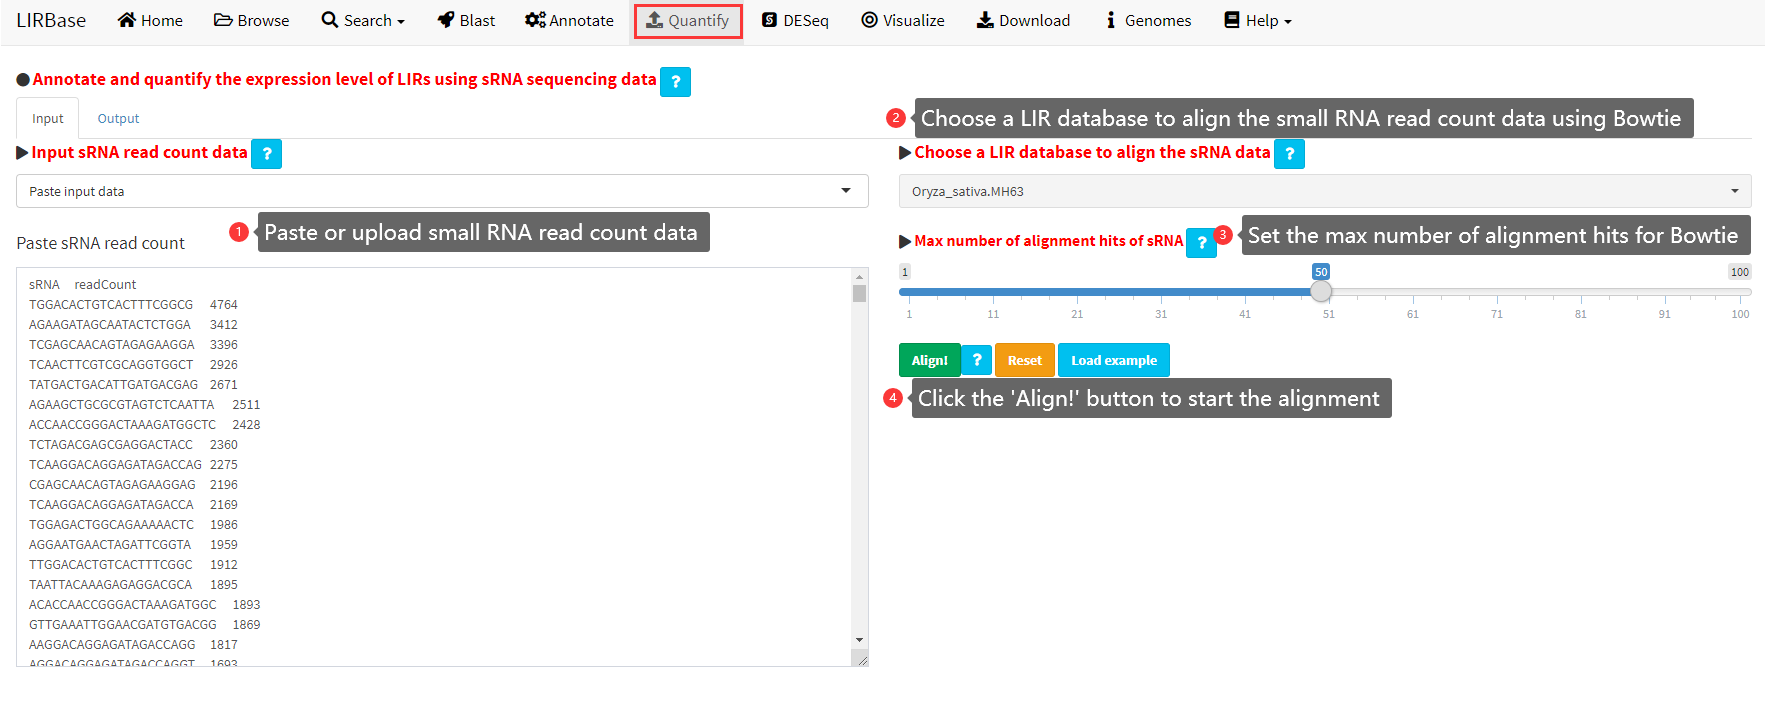
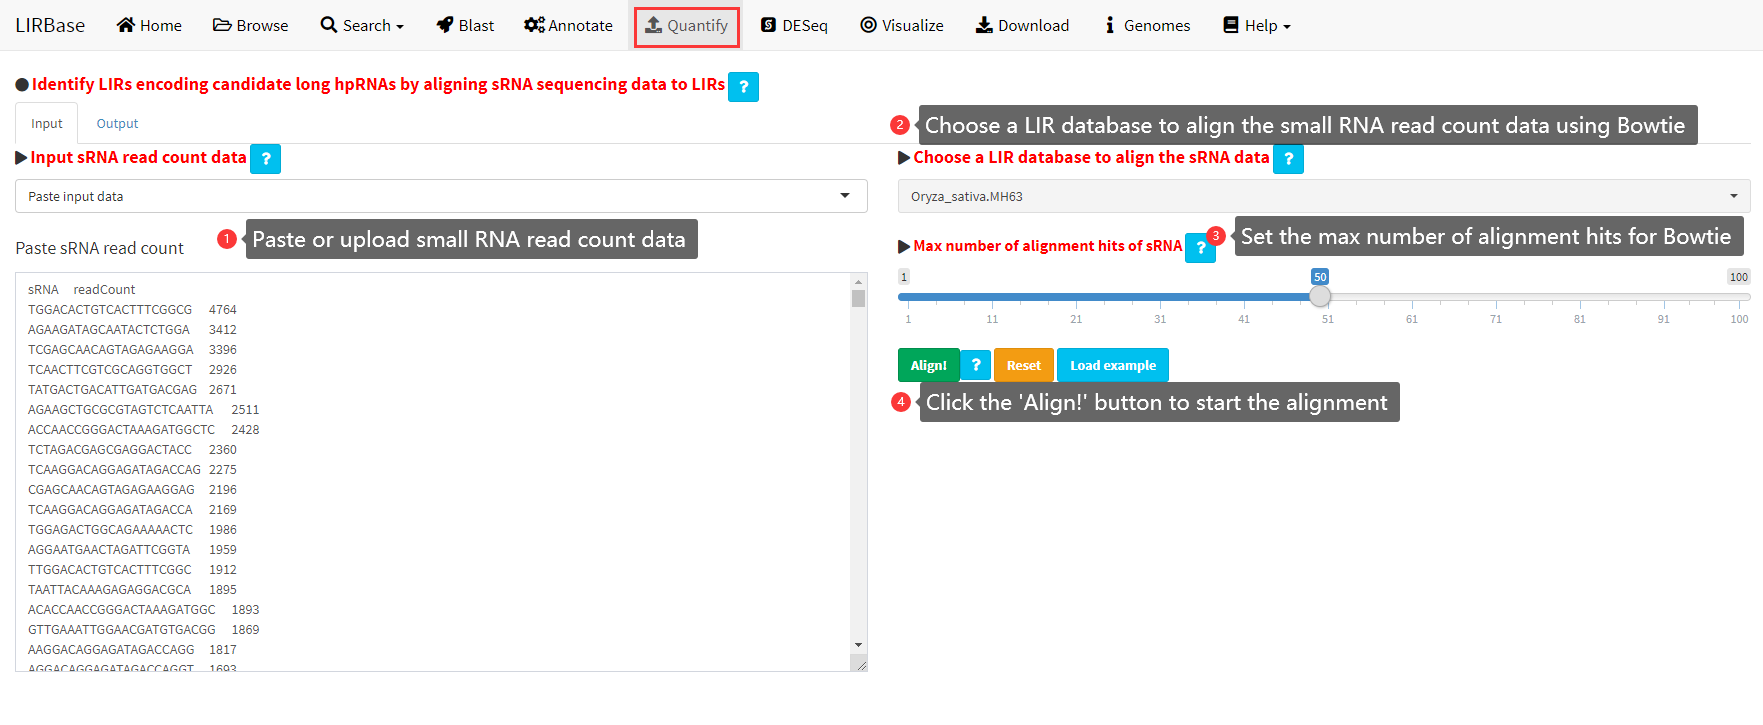
Update Tutorial and user interface

diff --git a/Tutorial.md b/Tutorial.md
@@ -11,7 +11,7 @@
 >&emsp;&emsp;The homepage of **LIRBase** displays the main functionalities of LIRBase (Figure 1). The definition of long inverted repeat, the biogenesis pathway of siRNAs from long inverted repeat and the biological roles of siRNAs generated in this pathway are elaborated in the homepage of LIRBase. These results implied that a platform for comprehensive annotation and analysis of siRNAs derived from long inverted repeat is in urgent need.
 
 <div align=center><img src="Fig1.png" width="85%" height="85%" align=center /></div>
-<div align=center><font color=blue size=4>Figure 1. The homepage of LIRBase.</font></div>  
+<div align=center><font color=blue size=5>Figure 1. The homepage of LIRBase.</font></div>  
 
 
 ## **1. Browse LIRBase for long inverted repeats identified in 424 eukaryotic genomes**
@@ -19,124 +19,129 @@
 >&emsp;&emsp;The images and the species names of 424 eukaryotes are listed in the &quot;Species&quot; panel of the &quot;Browse&quot; menu of LIRBase (Figure 2). Click of the image or the species name of any genome would take you to the &quot;LIRs annotated by IRF&quot; panel of the &quot;Browse&quot; menu, which displays all the LIRs identified in the selected genome (Figure 3). A brief summary of all the LIRs of the selected genome and a table of all the LIRs showing the structure of each LIR is demonstrated in the &quot;LIRs annotated by IRF&quot; panel. Click of the ID of any LIR in the table of all LIRs would take you to the &quot;Details of the LIR selected&quot; panel of the &quot;Browse&quot; menu, which displays the sequence, structure of the selected LIR and the overlaps between the selected LIRs and gene (Figure 3 and 4).
 
 <div align=center><img src="Fig2.png" width="85%" height="85%" align=center /></div>
-<div align=center><font color=blue size=4>Figure 2. Species name and images of 424 eukaryotic genomes listed in the &quot;Species&quot; panel of the &quot;Browse&quot; menu.</font></div>  
+<div align=center><font color=blue size=5>Figure 2. Species name and images of 424 eukaryotic genomes listed in the &quot;Species&quot; panel of the &quot;Browse&quot; menu.</font></div>  
 
 <br/>
 
 <div align=center><img src="Fig3.png" width="85%" height="85%" align=center /></div>
-<div align=center><font color=blue size=4>Figure 3. List of all the LIRs identified by IRF for a selected genome.</font></div>  
+<div align=center><font color=blue size=5>Figure 3. List of all the LIRs identified by IRF for a selected genome.</font></div>  
 
 <br/>
 
 <div align=center><img src="Fig4.png" width="85%" height="85%" align=center /></div>
-<div align=center><font color=blue size=4>Figure 4. Detailed information of a selected LIR.</font></div>  
+<div align=center><font color=blue size=5>Figure 4. Detailed information of a selected LIR.</font></div>  
 
 ## **2. Search LIRBase for LIRs in a specific genome by genomic locations**
 
 >&emsp;&emsp;LIRBase allows searching for LIRs of any of the 424 eukaryotic genomes by genomic locations (Figure 5). The detailed steps are shown in Figure 6.
 
 <div align=center><img src="Fig5.png" width="85%" height="85%" align=center /></div>
-<div align=center><font color=blue size=4>Figure 5. The &quot;Search by genomic location&quot; submenu of the &quot;Search&quot; menu.</font></div>  
+<div align=center><font color=blue size=5>Figure 5. The &quot;Search by genomic location&quot; submenu of the &quot;Search&quot; menu.</font></div>  
 
 <br/>
 
 <div align=center><img src="Fig6.png" width="85%" height="85%" align=center /></div>
-<div align=center><font color=blue size=4>Figure 6. Steps to search LIRBase by genomic location.</font></div>  
+<div align=center><font color=blue size=5>Figure 6. Steps to search LIRBase by genomic location.</font></div>  
 
 ## **3. Search LIRBase for LIRs in a specific genome by the identifiers of LIRs**
 
 >&emsp;&emsp;LIRBase allows searching for LIRs of any of the 424 eukaryotic genomes by the identifiers (IDs) of long inverted repeats (Figure 7). The detailed steps are shown in Figure 8. After clicking the &quot;Search&quot; button in the &quot;Input&quot; panel shown in Figure 8, the results would be displayed in the &quot;Output&quot; panel (Figure 9).
 
 <div align=center><img src="Fig7.png" width="85%" height="85%" align=center /></div>
-<div align=center><font color=blue size=4>Figure 7. The &quot;Search by LIR identifier&quot; submenu of the &quot;Search&quot; menu.</font></div>  
+<div align=center><font color=blue size=5>Figure 7. The &quot;Search by LIR identifier&quot; submenu of the &quot;Search&quot; menu.</font></div>  
 
 <br/>
 
 <div align=center><img src="Fig8.png" width="85%" height="85%" align=center /></div>
-<div align=center><font color=blue size=4>Figure 8. Steps to search LIRBase by LIR identifiers.</font></div>  
+<div align=center><font color=blue size=5>Figure 8. Steps to search LIRBase by LIR identifiers.</font></div>  
 
 <br/>
 
 <div align=center><img src="Fig9.png" width="85%" height="85%" align=center /></div>
-<div align=center><font color=blue size=4>Figure 9. The &quot;Output&quot; panel of the &quot;Search by LIR identifier&quot; submenu.</font></div>  
+<div align=center><font color=blue size=5>Figure 9. The &quot;Output&quot; panel of the &quot;Search by LIR identifier&quot; submenu.</font></div>  
 
 ## **4. Search LIRBase by sequence similarity using BLAST**
 
 >&emsp;&emsp;Users can choose to search LIRBase by sequence similarity utilizing BLAST (Figure 10). A graphical interface was implemented in LIRBase for users to perform BLAST alignment through the NCBI BLAST+ program. BLASTN databases were constructed for all the LIRs identified in each of the 424 eukaryotic genomes. Users can choose to BLAST against any one or more genomes. The detailed steps to perform BLAST in LIRBase in shown in Figure 10.
 
 <div align=center><img src="Fig10.png" width="85%" height="85%" align=center /></div>
-<div align=center><font color=blue size=4>Figure 10. Steps to BLAST in LIRBase.</font></div>  
+<div align=center><font color=blue size=5>Figure 10. Steps to BLAST in LIRBase.</font></div>  
 
 <br/>
 
 >&emsp;&emsp;Once the BLAST alignment is finished, you would be taken to the &quot;Output&quot; panel of the &quot;Blast&quot; menu, which displays the BLAST result in details (Figure 11). You can view and download the whole BLAST results, which was shown as a table. By clicking a row of this table, you can view the detailed information of a BLAST hit, including the alignment of a query sequence and a subject LIR sequence in the BLAST database represented by this BLAST hit. The structure, sequence of the LIR in this BLAST hit and the overlaps between this LIR and genes in the corresponding genome was also shown in the &quot;Output&quot; panel after clicking a row of the BLAST result table (Figure 11).
 
 <div align=center><img src="Fig11.png" width="85%" height="85%" align=center /></div>
-<div align=center><font color=blue size=4>Figure 11. The &quot;Output&quot; panel of the &quot;Blast&quot; menu.</font></div>  
+<div align=center><font color=blue size=5>Figure 11. The &quot;Output&quot; panel of the &quot;Blast&quot; menu.</font></div>  
 
 ## **5. Detect and annotate long inverted repeats in user-uploaded DNA sequences**
 
 >&emsp;&emsp;The software IRF ([https://tandem.bu.edu/irf/irf.download.html](https://tandem.bu.edu/irf/irf.download.html)) was utilized to identify long inverted repeats in the 424 eukaryotic genomes collected in LIRBase. IRF can only be used in the command line. We implemented a graphical interface for users to annotate long inverted repeats in user-uploaded DNA sequences by IRF (Figure 12). The detailed steps to annotate LIRs in user-uploaded DNA sequences are shown in Figure 12. The input DNA sequences for IRF can be pasted in a text area provided or be uploaded from a local text file. The input data must be DNA sequence in fasta format. Each sequence should have a unique ID start with ">".
 
 <div align=center><img src="Fig12.png" width="85%" height="85%" align=center /></div>
-<div align=center><font color=blue size=4>Figure 12. The &quot;Annotate&quot; menu of LIRBase to annotate LIRs in user-uploaded DNA sequences.</font></div>  
+<div align=center><font color=blue size=5>Figure 12. The &quot;Annotate&quot; menu of LIRBase to annotate LIRs in user-uploaded DNA sequences.</font></div>  
 
 <br/>
 
->&emsp;&emsp;The sequences and structures of LIRs identified by IRF can be downloaded as text files (Figure 12). The result of IRF can also be view in HTML pages (Figrue12 and 13).
+>&emsp;&emsp;The sequences and structures of LIRs identified by IRF can be downloaded as text files (Figure 12). The result of IRF can also be viewed in HTML pages (Figrue12 and 13).
 
 <div align=center><img src="Fig13.png" width="85%" height="85%" align=center /></div>
-<div align=center><font color=blue size=4>Figure 13. The LIRs identified by IRF viewed in HTML pages.</font></div>  
+<div align=center><font color=blue size=5>Figure 13. The LIRs identified by IRF viewed in HTML pages.</font></div>  
 
-## **6. Annotate and quantify the expression level of LIRs using sRNA sequencing data**
+## **6. Identify LIRs encoding candidate long hpRNAs by aligning sRNA sequencing data to LIRs**
 
 >&emsp;&emsp;When transcribed, long inverted repeat can form long hairpin RNA genes (hpRNAs), which are much longer than typical animal or plant pre-miRNAs. Henderson et al. (2006) reported the biogenesis of small interfering RNAs (siRNAs) from long inverted repeat in _Arabidopsis thaliana_ for the first time. This siRNA biogenesis pathway was soon reported and verified in other animals and plants.
 
 >&emsp;&emsp;To facilitate the annotation of small RNAs derived from LIRs archived in LIRBase, we implemented a functionality in LIRBase allowing alignment of user-uploaded small RNA sequencing data to all the identified LIRs of a genome (Figure 14). The input data should be read count of small RNAs rather than the raw small sequencing data as shown in Figure 14. The input small RNA read count data can be pasted in a text area provided or be uploaded from a local text file.
 
->&emsp;&emsp;After clicking the &quot;Align!&quot; button, the alignment would be performed. The alignment results would be displayed in the &quot;Output&quot; panel of the &quot;Quantify&quot; menu (Figure 15). The detailed alignment result, the summary of alignment and the sRNA read count of aligned LIRs can be downloaded. What&#39;s more, the summary of alignment result and the sRNA read count of aligned LIRs can be viewed as data tables in the HTML page. By clicking on a single row of the table of sRNA read count of LIRs, the size distributions of sRNAs and the alignment of sRNAs to the LIR would be plotted in figures. The detailed information of the chosen LIR would be displayed at the bottom of the &quot;Output&quot; panel.
+>&emsp;&emsp;After clicking the &quot;Align!&quot; button, the alignment would be performed. The alignment results would be displayed in the &quot;Output&quot; panel of the &quot;Quantify&quot; menu (Figure 15). The detailed alignment result, the summary of alignment and the sRNA read count of aligned LIRs can be downloaded. What&#39;s more, the summary of alignment result and the sRNA read count of aligned LIRs can be viewed as data tables in the HTML page. By clicking on a single row of the table of sRNA alignment summary, the size distributions of sRNAs and the alignment of sRNAs to the LIR would be plotted. The detailed information of the chosen LIR would be displayed at the bottom of the &quot;Output&quot; panel.
 
 <div align=center><img src="Fig14.png" width="85%" height="85%" align=center /></div>
-<div align=center><font color=blue size=4>Figure 14. The &quot;Quantify&quot; menu of LIRBase to align small RNA sequencing data to a LIR database.</font></div>  
+<div align=center><font color=blue size=5>Figure 14. The &quot;Quantify&quot; menu of LIRBase to align small RNA sequencing data to a LIR database.</font></div>  
 
 <br/>
 
 <div align=center><img src="Fig15.png" width="85%" height="85%" align=center /></div>
-<div align=center><font color=blue size=4>Figure 15. The &quot;Output&quot; panel of the &quot;Quantify&quot; menu of LIRBase.</font></div>  
+<div align=center><font color=blue size=5>Figure 15. The &quot;Output&quot; panel of the &quot;Quantify&quot; menu of LIRBase.</font></div>  
+
+>&emsp;&emsp;For each LIR in the table of sRNA alignment summary, the number of sRNAs aligned to the LIR, the number of sRNA sequencing reads aligned to the LIR, the percentage of 21-nt and 22-nt sRNAs among all sRNAs aligned to the LIR, the percentage of 24-nt sRNAs among all sRNAs aligned to the LIR, the percentage of sRNAs aligned to the arms of the LIR among all sRNAs aligned to the LIR, the percentage of sRNAs aligned to the loop of the LIR among all sRNAs aligned to the LIR, the percentage of sRNAs aligned to the flanking sequences of the LIR among all sRNAs aligned to the LIR, are displayed in different columns. At the top of this table, we can set the values of different columns to identify LIRs encoding candidate long hpRNAs. For example, we can identify LIRs encoding candidate long hpRNAs in the genome of Minghui 63 with the following request: (1) a minimum of 90 sRNAs aligned to the LIR, (2) a minimum of 80% sRNAs aligned to the arms of the LIR, (3) a minimum of 50% sRNAs should be 21 or 22 nt (Figure 16).
+
+<div align=center><img src="Fig16.png" width="85%" height="85%" align=center /></div>
+<div align=center><font color=blue size=5>Figure 16. Set the values of different columns of the table of sRNA alignment summary to identify LIRs encoding candidate long hpRNAs.</font></div>  
 
 ## **7. Differential expression analysis of long inverted repeats and small RNAs**
 
->&emsp;&emsp;By aligning small RNA sequencing data to a LIRBase, we can obtain the small RNA read count for each LIR in a genome. With multiple biological samples/tissues, we can perform differential expression analysis of long inverted repeats between different biological samples/tissues (Figure 16). The R package DESeq2 ([http://www.bioconductor.org/packages/release/bioc/html/DESeq2.html](http://www.bioconductor.org/packages/release/bioc/html/DESeq2.html)) was utilized to perform differential expression analysis. A read count matrix and a sample information table are required as input data for the differential expression analysis. The sample in the count matrix and the sample in the information table must be in the same order. Check the example data provided by LIRBase for the format of a sample information table.
+>&emsp;&emsp;By aligning small RNA sequencing data to a LIRBase, we can obtain the small RNA read count for each LIR in a genome. With multiple biological samples/tissues, we can perform differential expression analysis of long inverted repeats between different biological samples/tissues (Figure 17). The R package DESeq2 ([http://www.bioconductor.org/packages/release/bioc/html/DESeq2.html](http://www.bioconductor.org/packages/release/bioc/html/DESeq2.html)) was utilized to perform differential expression analysis. A read count matrix and a sample information table are required as input data for the differential expression analysis. The sample in the count matrix and the sample in the information table must be in the same order. Check the example data provided by LIRBase for the format of a sample information table.
 
->&emsp;&emsp;The results of DESeq2 can be downloaded as a plain text file or can be viewed in a data table in the HTML page (Figure 16). In addition, the MA-plot and the volcano plot showing the identified differentially expressed LIRs/sRNAs are also generated. A heatmap displaying the sample-to-sample distance is shown at the bottom of the &quot;DESeq&quot; menu.
+>&emsp;&emsp;The results of DESeq2 can be downloaded as a plain text file or can be viewed in a data table in the HTML page (Figure 17). In addition, the MA-plot and the volcano plot showing the identified differentially expressed LIRs/sRNAs are also generated. A heatmap displaying the sample-to-sample distance is shown at the bottom of the &quot;DESeq&quot; menu.
 
-<div align=center><img src="Fig16.png" width="85%" height="85%" align=center /></div>
-<div align=center><font color=blue size=4>Figure 16. The &quot;DESeq&quot; menu of LIRBase to perform differential expression analysis of LIRs/sRNAs.</font></div>  
+<div align=center><img src="Fig17.png" width="85%" height="85%" align=center /></div>
+<div align=center><font color=blue size=5>Figure 17. The &quot;DESeq&quot; menu of LIRBase to perform differential expression analysis of LIRs/sRNAs.</font></div>  
 
 ## **8. Predict and visualize the secondary structure of the potential hpRNA encoded by a LIR**
 
->We utilized the RNAfold software to predict and visualize the secondary structure of the potential hpRNA encoded by a LIR (Figure 17). The DNA sequence of a single LIR should be inputted at a time. The secondary structure in dot-bracket notation and the secondary structure in PDF image are displayed in the output, which can also be downloaded.
+>We utilized the RNAfold software to predict and visualize the secondary structure of the potential hpRNA encoded by a LIR (Figure 18). The DNA sequence of a single LIR should be inputted at a time. The secondary structure in dot-bracket notation and the secondary structure in PDF image are displayed in the output, which can also be downloaded.
 
-<div align=center><img src="Fig17.png" width="85%" height="85%" align=center /></div>
-<div align=center><font color=blue size=4>Figure 17. The 'Visualize' menu of LIRBase.</font></div>  
+<div align=center><img src="Fig18.png" width="85%" height="85%" align=center /></div>
+<div align=center><font color=blue size=5>Figure 18. The 'Visualize' menu of LIRBase.</font></div>  
 
 ## **9. Download LIRs of 424 eukaryotic genomes, the BLAST database and the Bowtie index database**
 
->&emsp;&emsp;In addition to be used online at [http://venyao.xyz/lirbase/](http://venyao.xyz/lirbase/), LIRBase can be deployed on a personal local or web Linux server. Deployment of LIRBase is platform independent, i.e., LIRBase can be deployed on any platform with the R environment available. The detailed steps are described in the &quot;Installation&quot; submenu of the &quot;Help&quot; menu of LIRBase (Figure 18). The source code of LIRBase is deposited in GitHub ([https://github.com/venyao/LIRBase](https://github.com/venyao/LIRBase)). As the file size of identified LIRs and the corresponding BLAST/Bowtie databases of the 424 eukaryotic genomes are too large, these datasets were not uploaded to GitHub. Instead, these data can be downloaded from [http://venyao.xyz/lirbase/](http://venyao.xyz/lirbase/) through the &quot;Download&quot; menu (Figure 19).
+>&emsp;&emsp;In addition to be used online at [http://venyao.xyz/lirbase/](http://venyao.xyz/lirbase/), LIRBase can be deployed on a personal local or web Linux server. Deployment of LIRBase is platform independent, i.e., LIRBase can be deployed on any platform with the R environment available. The detailed steps are described in the &quot;Installation&quot; submenu of the &quot;Help&quot; menu of LIRBase (Figure 19). The source code of LIRBase is deposited in GitHub ([https://github.com/venyao/LIRBase](https://github.com/venyao/LIRBase)). As the file size of identified LIRs and the corresponding BLAST/Bowtie databases of the 424 eukaryotic genomes are too large, these datasets were not uploaded to GitHub. Instead, these data can be downloaded from [http://venyao.xyz/lirbase/](http://venyao.xyz/lirbase/) through the &quot;Download&quot; menu (Figure 20).
 
-<div align=center><img src="Fig18.png" width="85%" height="85%" align=center /></div>
-<div align=center><font color=blue size=4>Figure 18. The &quot;Installation&quot; submenu of the &quot;Help&quot; menu of LIRBase.</font></div>  
+<div align=center><img src="Fig19.png" width="85%" height="85%" align=center /></div>
+<div align=center><font color=blue size=5>Figure 19. The &quot;Installation&quot; submenu of the &quot;Help&quot; menu of LIRBase.</font></div>  
 
 <br/>
 
-<div align=center><img src="Fig19.png" width="85%" height="85%" align=center /></div>
-<div align=center><font color=blue size=4>Figure 19. The &quot;Download&quot; menu of LIRBase.</font></div>  
+<div align=center><img src="Fig20.png" width="85%" height="85%" align=center /></div>
+<div align=center><font color=blue size=5>Figure 20. The &quot;Download&quot; menu of LIRBase.</font></div>  
 
 ## **10. Information of 424 genomes collected in LIRBase**
 
->&emsp;&emsp;The information of 424 genomes collected in LIRBase is displayed in the &quot;Genomes&quot; menu of LIRBase (Figure 20).
+>&emsp;&emsp;The information of 424 genomes collected in LIRBase is displayed in the &quot;Genomes&quot; menu of LIRBase (Figure 21).
 
-<div align=center><img src="Fig20.png" width="85%" height="85%" align=center /></div>
-<div align=center><font color=blue size=4>Figure 20. The &quot;Genomes&quot; menu of LIRBase.</font></div>  
+<div align=center><img src="Fig21.png" width="85%" height="85%" align=center /></div>
+<div align=center><font color=blue size=5>Figure 21. The &quot;Genomes&quot; menu of LIRBase.</font></div>  
 
 <br/>

diff --git a/Home.md b/Home.md
@@ -29,7 +29,7 @@
 >However, genome-wide identification and annotation of long inverted repeats were only conducted in very few organisms.
 >None database or web server for annotation and analysis of long inverted repeats and long hpRNAs exist up to now.
 >Using <a href="https://tandem.bu.edu/irf/irf.download.html" target="_blank">Inverted Repeats Finder (IRF)</a> [9], we identified a total of 6,619,473 long inverted repeats in the whole genomes of 424 eukaryotes, including 297,317 LIRs in 77 metazoa genomes, 1,731,978 LIRs in 139 plant genomes and 4,590,178 LIRs in 208 vertebrate genomes.
->We requested a minimum length of 400 nt for both stems of the long inverted repeat identified by IRF, to remove potential miniature inverted-repeat transposable element (MITE) or Alu element from the result of IRF.
+>We requested a minimum length of 400 nt for both arms of the long inverted repeat identified by IRF, to remove potential miniature inverted-repeat transposable element (MITE) or Alu element from the result of IRF.
 
 
 <i class="fa fa-circle" aria-hidden="true"></i> <font size="4" color="red"><b>References</b></font>   
